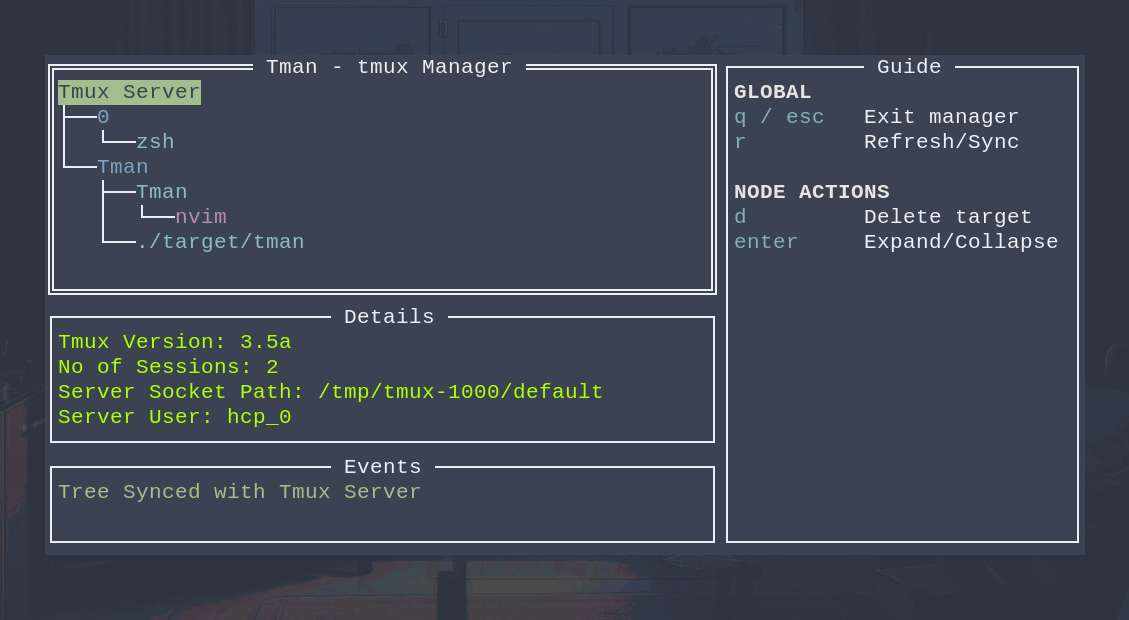
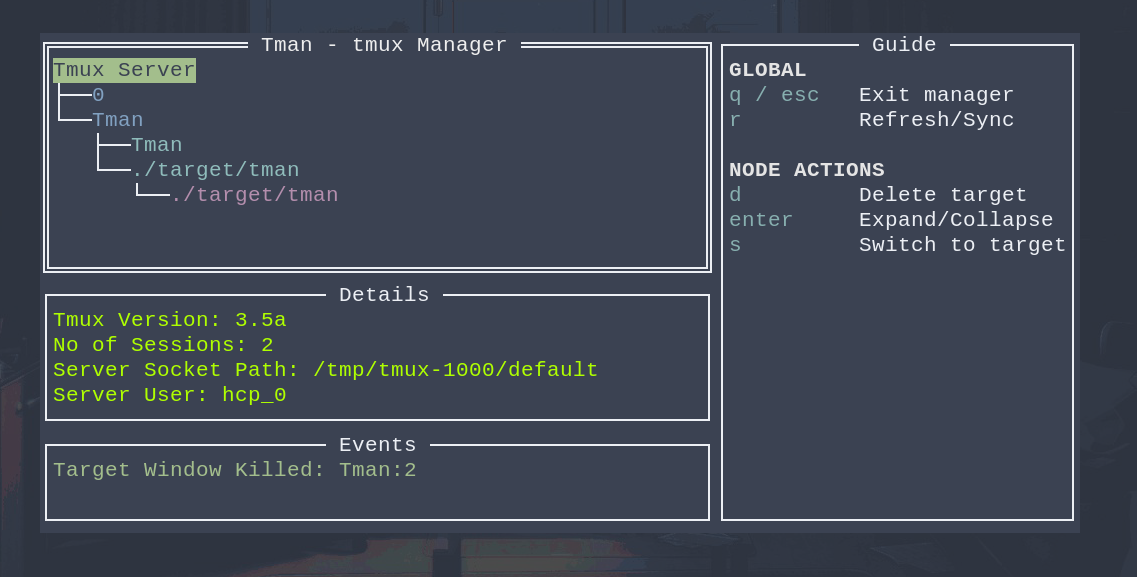
feat: Switch to Target

Changed region(s): [[0.031, 0.0624, 0.961, 0.9047], [0.248, 0.9359, 0.279, 0.9671]]

diff --git a/pkg/tman/events.go b/pkg/tman/events.go
@@ -37,3 +37,35 @@ func DeleteTmuxComponent(comp TmuxComponent) (string, error) {
 
 	return msg, nil
 }
+
+func SwitchTmuxComponent(comp TmuxComponent) (string, error) {
+	var cmd *exec.Cmd
+	var msg string
+	switch ref := comp.(type) {
+	case *Root:
+		return "", nil
+	case *Session:
+		target := ref.sessionName
+		msg = "Switched to Session: " + target
+		cmd = exec.Command("tmux", "switch-client", "-t", target)
+	case *Window:
+		sessionName := ref.parentSession.sessionName
+		target := sessionName + ":" + ref.windowIndex
+		msg = "Switched to Window: " + target
+		cmd = exec.Command("tmux", "switch-client", "-t", target)
+
+	case *Pane:
+		SessionName := ref.parentWindow.parentSession.sessionName
+		windoIndex := ref.parentWindow.windowIndex
+		target := SessionName + ":" + windoIndex + "." + ref.paneIndex
+		msg = "Switched to Pane: " + target
+		cmd = exec.Command("tmux", "switch-client", "-t", target)
+	}
+
+	_, err := runStandard(cmd)
+	if err != nil {
+		return "", fmt.Errorf("executing switch: %v", err)
+	}
+
+	return msg, nil
+}

diff --git a/pkg/ui/events.go b/pkg/ui/events.go
@@ -63,7 +63,7 @@ func appKeyHooks(app *tview.Application, tree *tview.TreeView, eventPanel *tview
 	}
 }
 
-func treeKeyHooks(tree *tview.TreeView, infoPanel *tview.TextView, eventPanel *tview.TextView) func(*tcell.EventKey) *tcell.EventKey {
+func treeKeyHooks(tree *tview.TreeView, infoPanel *tview.TextView, eventPanel *tview.TextView, app *tview.Application) func(*tcell.EventKey) *tcell.EventKey {
 	return func(event *tcell.EventKey) *tcell.EventKey {
 		node := tree.GetCurrentNode()
 		_ref := node.GetReference()
@@ -83,6 +83,15 @@ func treeKeyHooks(tree *tview.TreeView, infoPanel *tview.TextView, eventPanel *t
 			// Remove the nodes
 			infoPanel.Clear()
 			deleteNode(tree, node)
+		case 's':
+			msg, err := tman.SwitchTmuxComponent(comp)
+			if err != nil {
+				infoPanel.SetText(fmt.Sprintf("switching to target: %v", err)).SetTextColor(tcell.ColorRed)
+				return event
+			}
+
+			eventPanel.SetText(msg).SetTextColor(tcell.ColorGreen)
+			app.Stop()
 		default:
 			return event
 		}

diff --git a/pkg/ui/engine.go b/pkg/ui/engine.go
@@ -34,7 +34,7 @@ func buildUI(app *tview.Application) (*tview.Flex, error) {
 	sidePanel.SetText(guideText)
 
 	tree := tview.NewTreeView()
-	tree.SetInputCapture(treeKeyHooks(tree, infoPanel, eventPanel))
+	tree.SetInputCapture(treeKeyHooks(tree, infoPanel, eventPanel, app))
 	tree.SetTitle(" Tman - tmux Manager ").SetBorder(true).SetTitleColor(tcell.ColorWhiteSmoke)
 	tree.SetChangedFunc(hoverTreeHook(infoPanel))
 	tree.SetSelectedFunc(selectedNodeHook(infoPanel))

diff --git a/pkg/ui/constants.go b/pkg/ui/constants.go
@@ -7,4 +7,5 @@ var guideText = `[#D8DEE9::b]GLOBAL[-:-:-]
 [#D8DEE9::b]NODE ACTIONS[-:-:-]
 [#81A1C1]d      [-]   Delete target
 [#81A1C1]enter  [-]   Expand/Collapse
+[#81A1C1]s      [-]   Switch to target
 `

diff --git a/README.md b/README.md
@@ -38,6 +38,7 @@ pane (purple) — and the layout is three panels:
 - Browse the server, session, window and pane hierarchy from a single tree.
 - Lazy expansion — one `tmux` call per level, only when you ask for it.
 - Delete any component: the server, a session, a window or a pane.
+- Switch the attached tmux client straight to a session, window or pane with `s`.
 - Re-sync the whole tree from a live tmux server at any time.
 - Per-node details, action feedback and an in-app keybinding guide.
 - No config file, no daemon, no background state.
@@ -48,6 +49,9 @@ pane (purple) — and the layout is three panels:
   server; it does not start one.
 - **`tmux` on your `PATH`.** All queries go through the tmux CLI, not a socket
   library.
+- **To switch targets with `s`, run Tman from inside tmux.** Switching acts on the
+  attached *client*, so outside a tmux session tmux answers `no current client` and
+  nothing happens.
 - **Go 1.26.3 or newer** to build from source (pinned in `go.mod`).
 
 ## Build and run
@@ -86,12 +90,27 @@ go build -C cmd/tman -o target/tman
 | `r` | Global | Refresh — re-sync the tree from the tmux server |
 | `Enter` | Node | Expand / collapse (fetches children on first expand) |
 | `d` | Node | Delete the selected component |
+| `s` | Node | Switch the attached tmux client to the selected component, then quit Tman |
 
 Deleting the last child of a node removes that parent from the tree as well, so the
 view keeps matching the server.
 
 > **Careful:** `d` on the server node runs `tmux kill-server` — it takes down every
 > session, window and pane at once. There is no confirmation prompt.
+
+### Switching targets
+
+`s` on a session, window or pane runs `tmux switch-client -t <target>`, then Tman
+exits and hands your terminal back to tmux — which is now displaying the target. In
+effect Tman is a launcher: you drop into the session you picked and run Tman again
+when you want to come back. Because it switches the *current* client, this only works
+when Tman itself is running inside a tmux session.
+
+There is nothing to switch to on the server node, so `s` is a no-op there.
+
+One detail worth knowing: the "Switched to …" confirmation is written to the Events
+panel and then the application stops, so you will not actually see it. The handoff is
+the feedback.
 
 ## How it works
 
@@ -115,8 +134,9 @@ each holding a reference back up to its parent.
 - `engine.go` issues the queries: `tmux list-sessions`, `tmux list-windows` and
   `tmux list-panes`, each with a `-F` format string that shapes the output into
   colon-delimited fields for the parsers.
-- `events.go` maps deletion onto tmux with a type switch: `Root` → `kill-server`,
-  `Session` → `kill-session`, `Window` → `kill-window`, `Pane` → `kill-pane`. Targets
+- `events.go` maps actions onto tmux with a type switch. Deletion: `Root` →
+  `kill-server`, `Session` → `kill-session`, `Window` → `kill-window`, `Pane` →
+  `kill-pane`. Switching: the same three levels → `switch-client`. Targets
   are assembled from the parent chain, so a pane is addressed as
   `session:window.pane`.
 
@@ -130,7 +150,8 @@ with key handling split into a global capture and a per-node capture.
   `list-windows`, expanding a window runs `list-panes`. A node that already has
   children toggles instead.
 - `events.go` implements deletion, recursing upward to drop parents that have just
-  lost their last child.
+  lost their last child, and handles `s` by issuing the switch and stopping the
+  application so the terminal goes back to tmux.
 
 One `tmux` subprocess per expansion, and nothing is cached between them.
 
@@ -138,7 +159,7 @@ One `tmux` subprocess per expansion, and nothing is cached between them.
 
 Tman is young, and every rough edge below is something intended to fix. Next major features that are planned to release are  
  
-- Switch to diffrent sessions using a key (similar to `tmux switchc -t $TARGET_SESSION`)
+- [x] ~~Switch to diffrent sessions using a key (similar to `tmux switchc -t $TARGET_SESSION`)~~ — **done.** `s` on a session, window or pane, via `tmux switch-client -t <target>`
 - Create Sessions, Windows, Panes under a valid Parent or Root
 - General Improvements on Performance (Reducing subprocesses)
 
